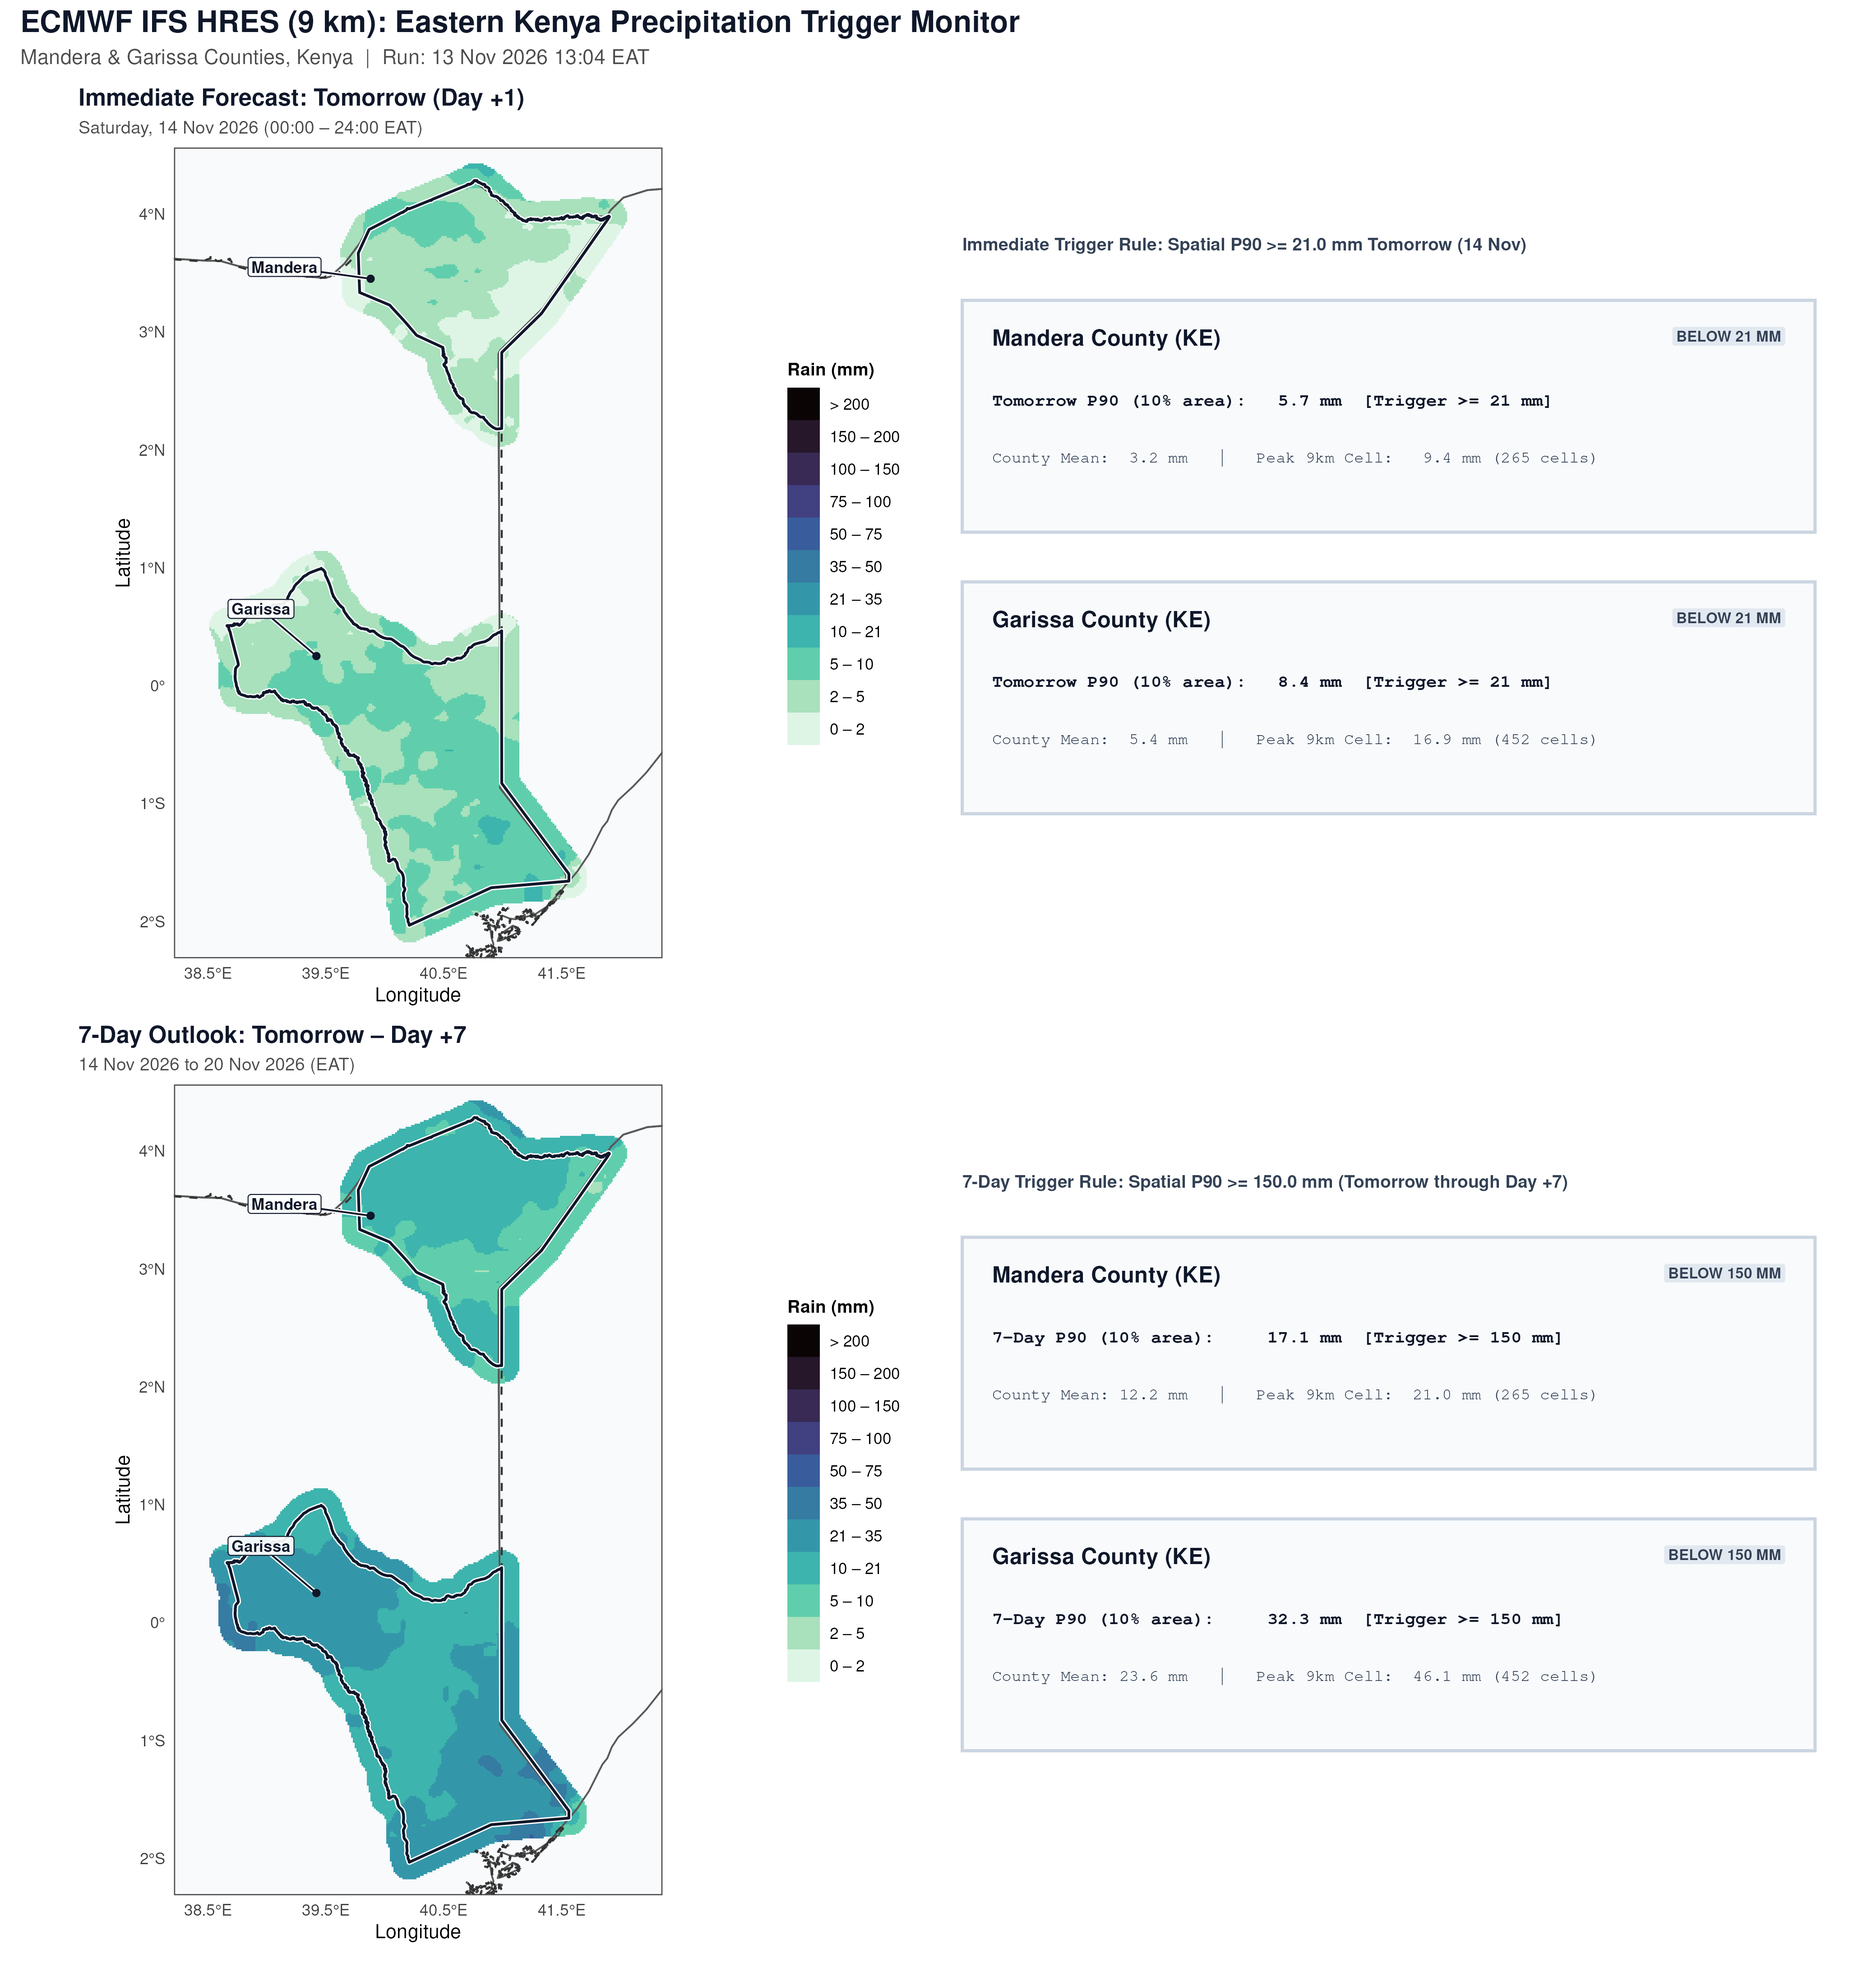
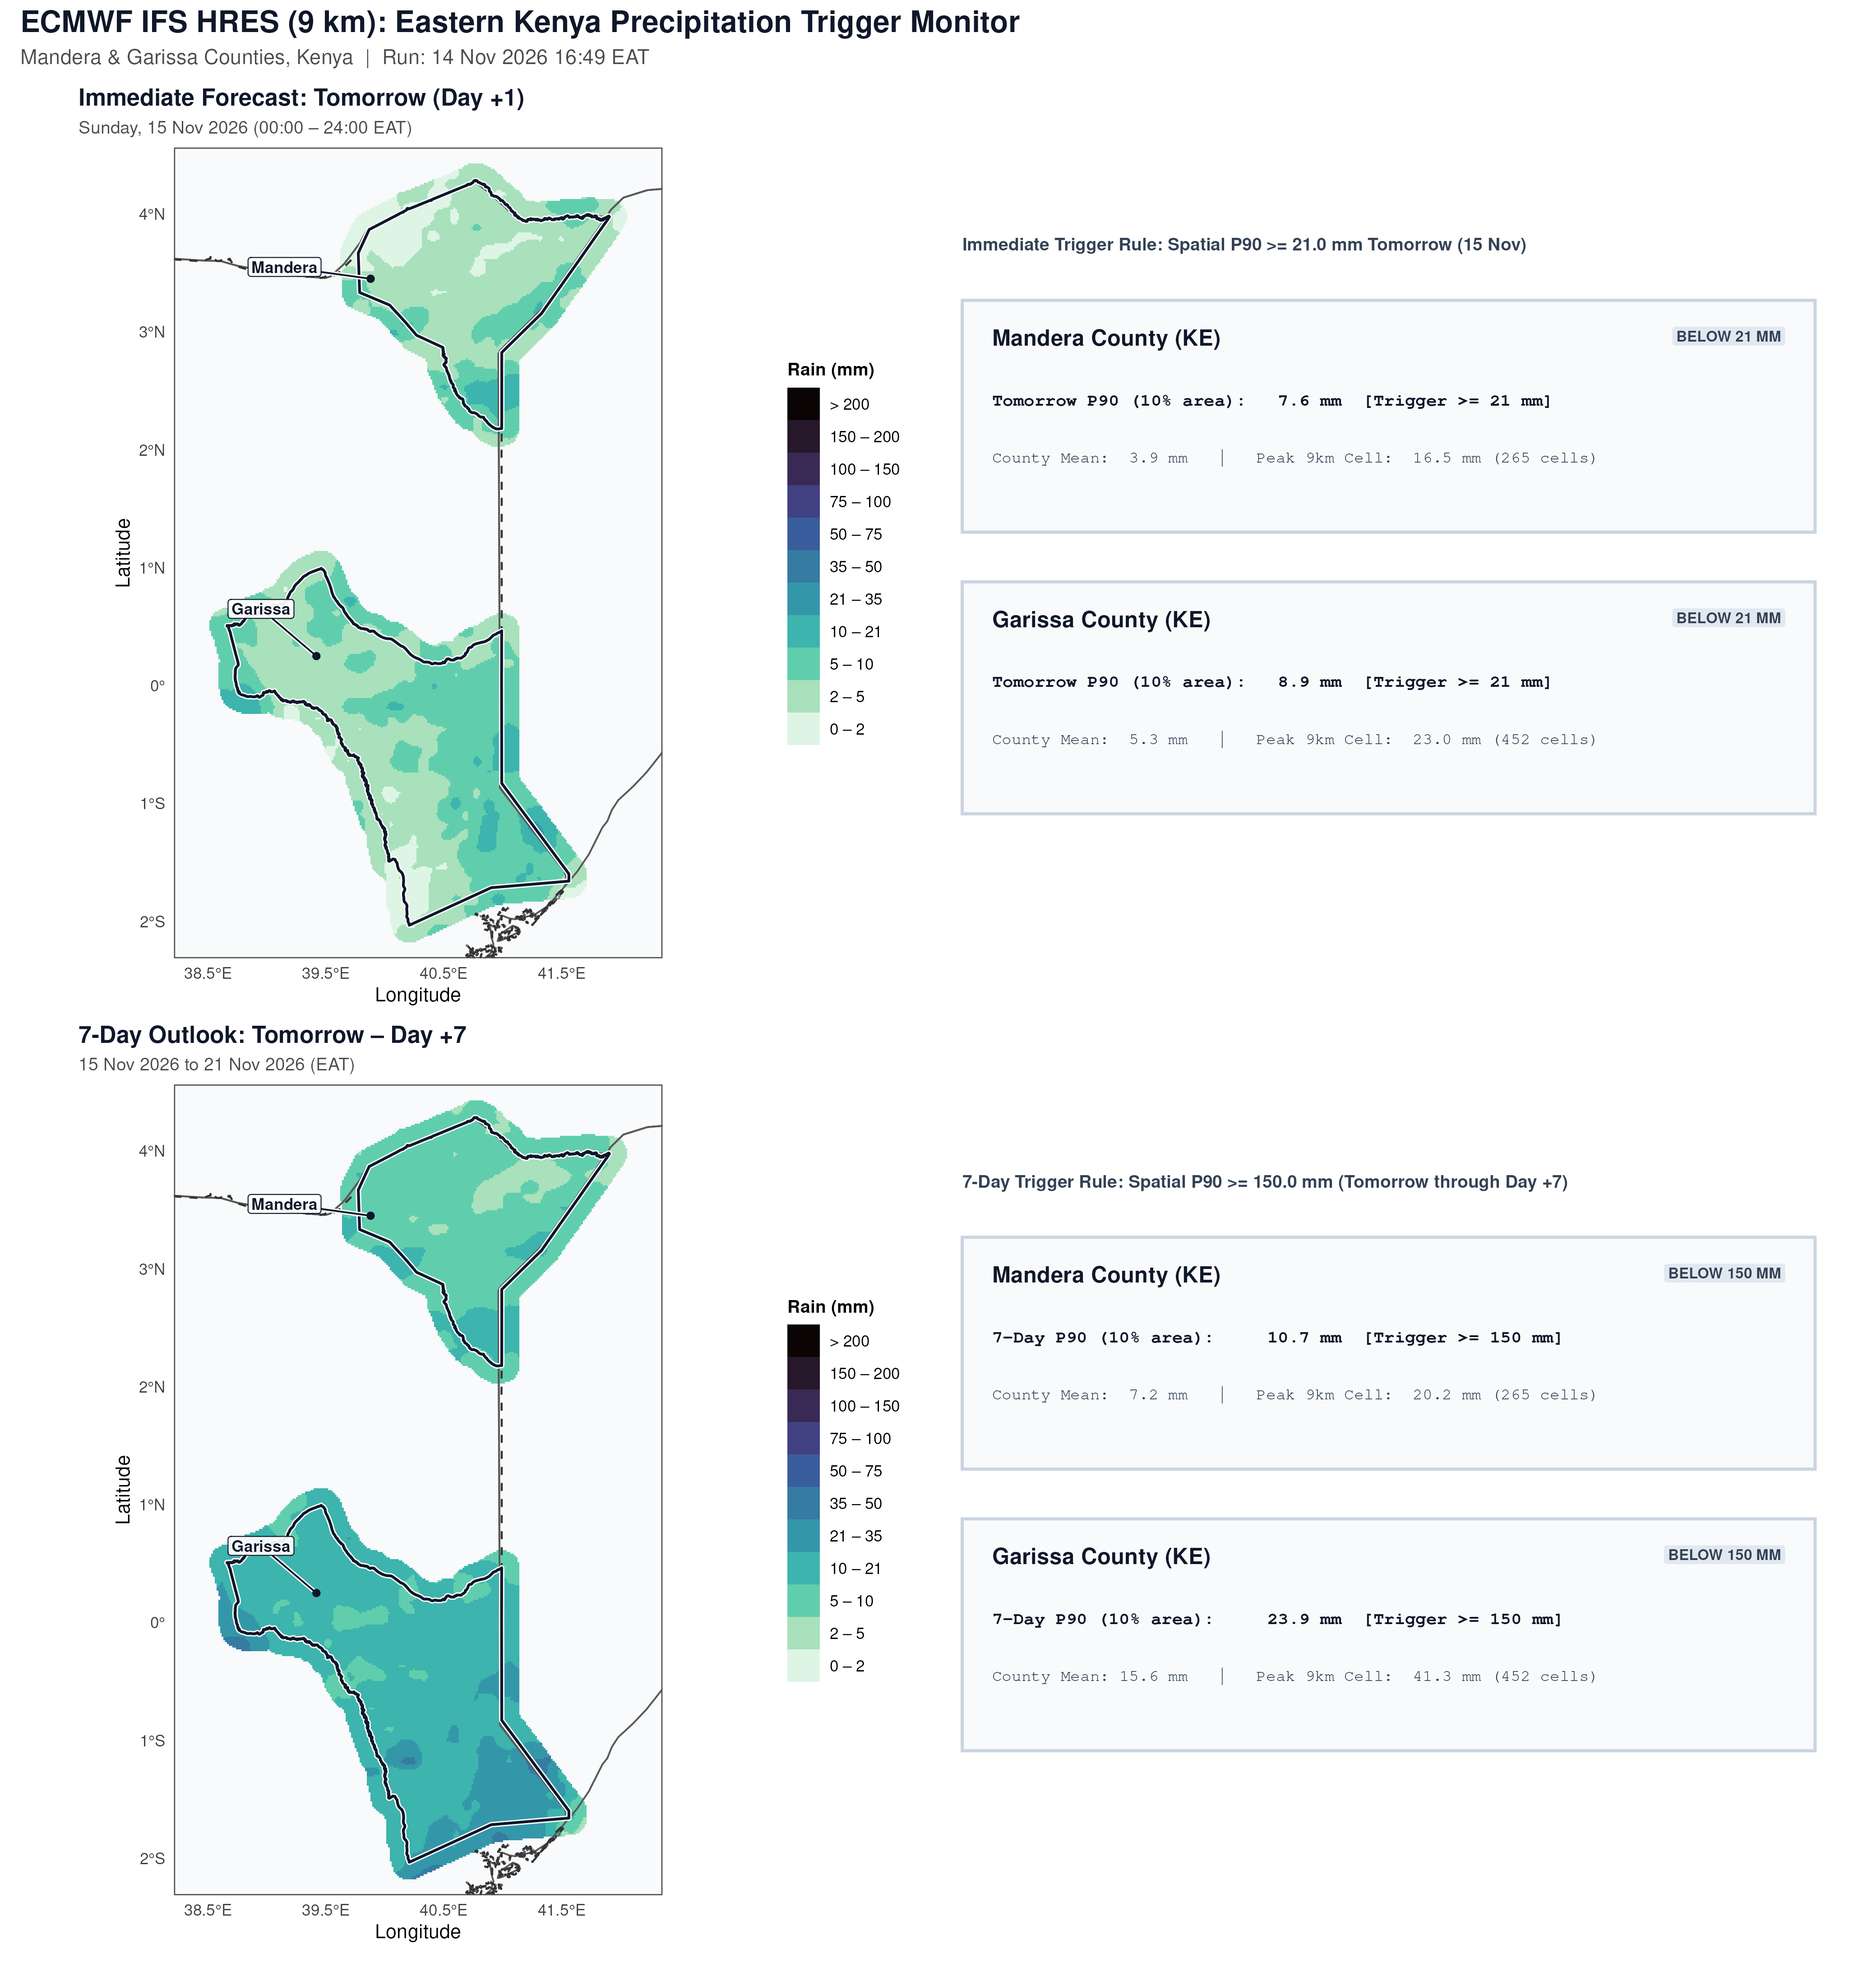
deploy: 5d000fb290f9478853eb17d3b66b2c6db87947ea

diff --git a/eastern_kenya/index.html b/eastern_kenya/index.html
@@ -1,1 +1,1 @@
-<!DOCTYPE html><html><head><meta charset='utf-8'><title>Eastern Kenya Trigger Monitor (Mandera &amp; Garissa)</title><style>body{font-family:sans-serif;margin:24px;background:#F8FAFC;color:#0F172A;max-width:1280px;}img{width:100%;height:auto;border:1px solid #CBD5E1;border-radius:6px;background:white;}</style></head><body><h2>Eastern Kenya (Mandera &amp; Garissa) IFS HRES Trigger Dashboard</h2><p>Counties: Mandera &amp; Garissa (KE) | Thresholds: &ge; 21 mm (Tomorrow) / &ge; 150 mm (7-Day) | Last updated: 2026-11-13 13:04 EAT (10:04 UTC) | <a href='trigger_feed.xml'>RSS Trigger Feed</a></p><img src='eastern_kenya_ifs_hres_trigger_dashboard.png?v=1794564276' alt='Eastern Kenya Forecast Dashboard'/></body></html>
+<!DOCTYPE html><html><head><meta charset='utf-8'><title>Eastern Kenya Trigger Monitor (Mandera &amp; Garissa)</title><style>body{font-family:sans-serif;margin:24px;background:#F8FAFC;color:#0F172A;max-width:1280px;}img{width:100%;height:auto;border:1px solid #CBD5E1;border-radius:6px;background:white;}</style></head><body><h2>Eastern Kenya (Mandera &amp; Garissa) IFS HRES Trigger Dashboard</h2><p>Counties: Mandera &amp; Garissa (KE) | Thresholds: &ge; 21 mm (Tomorrow) / &ge; 150 mm (7-Day) | Last updated: 2026-11-14 16:49 EAT (13:49 UTC) | <a href='trigger_feed.xml'>RSS Trigger Feed</a></p><img src='eastern_kenya_ifs_hres_trigger_dashboard.png?v=1794664154' alt='Eastern Kenya Forecast Dashboard'/></body></html>
